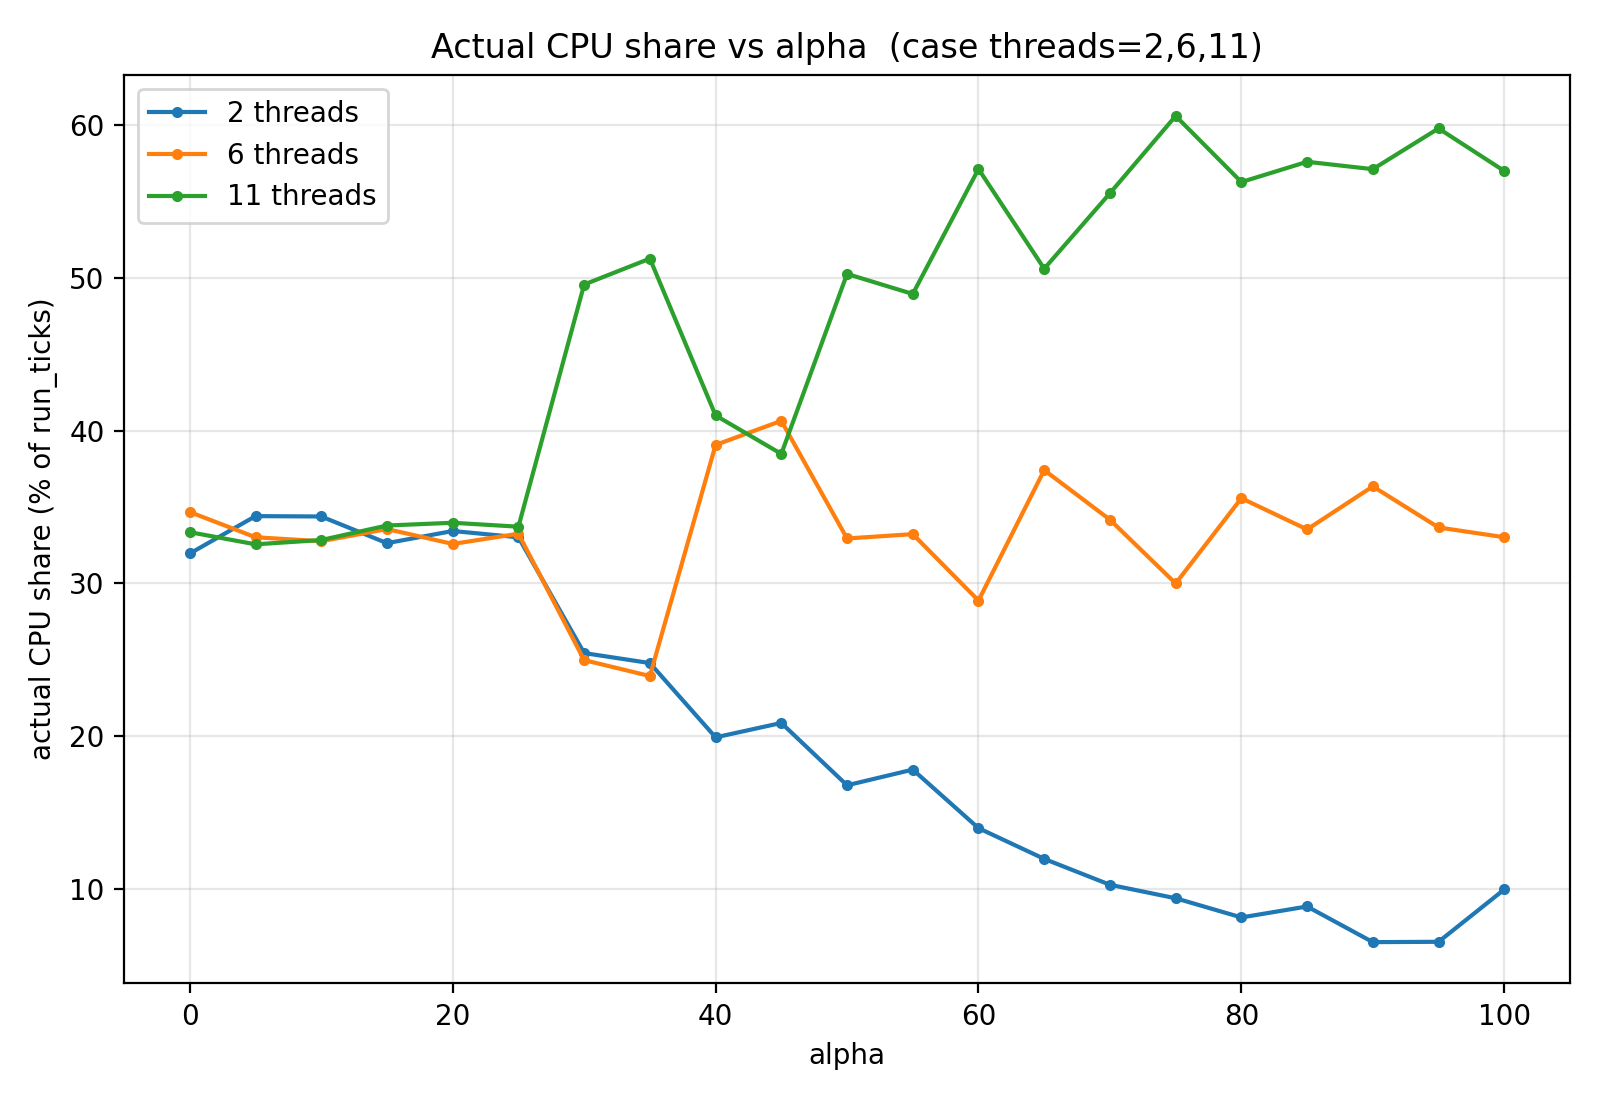
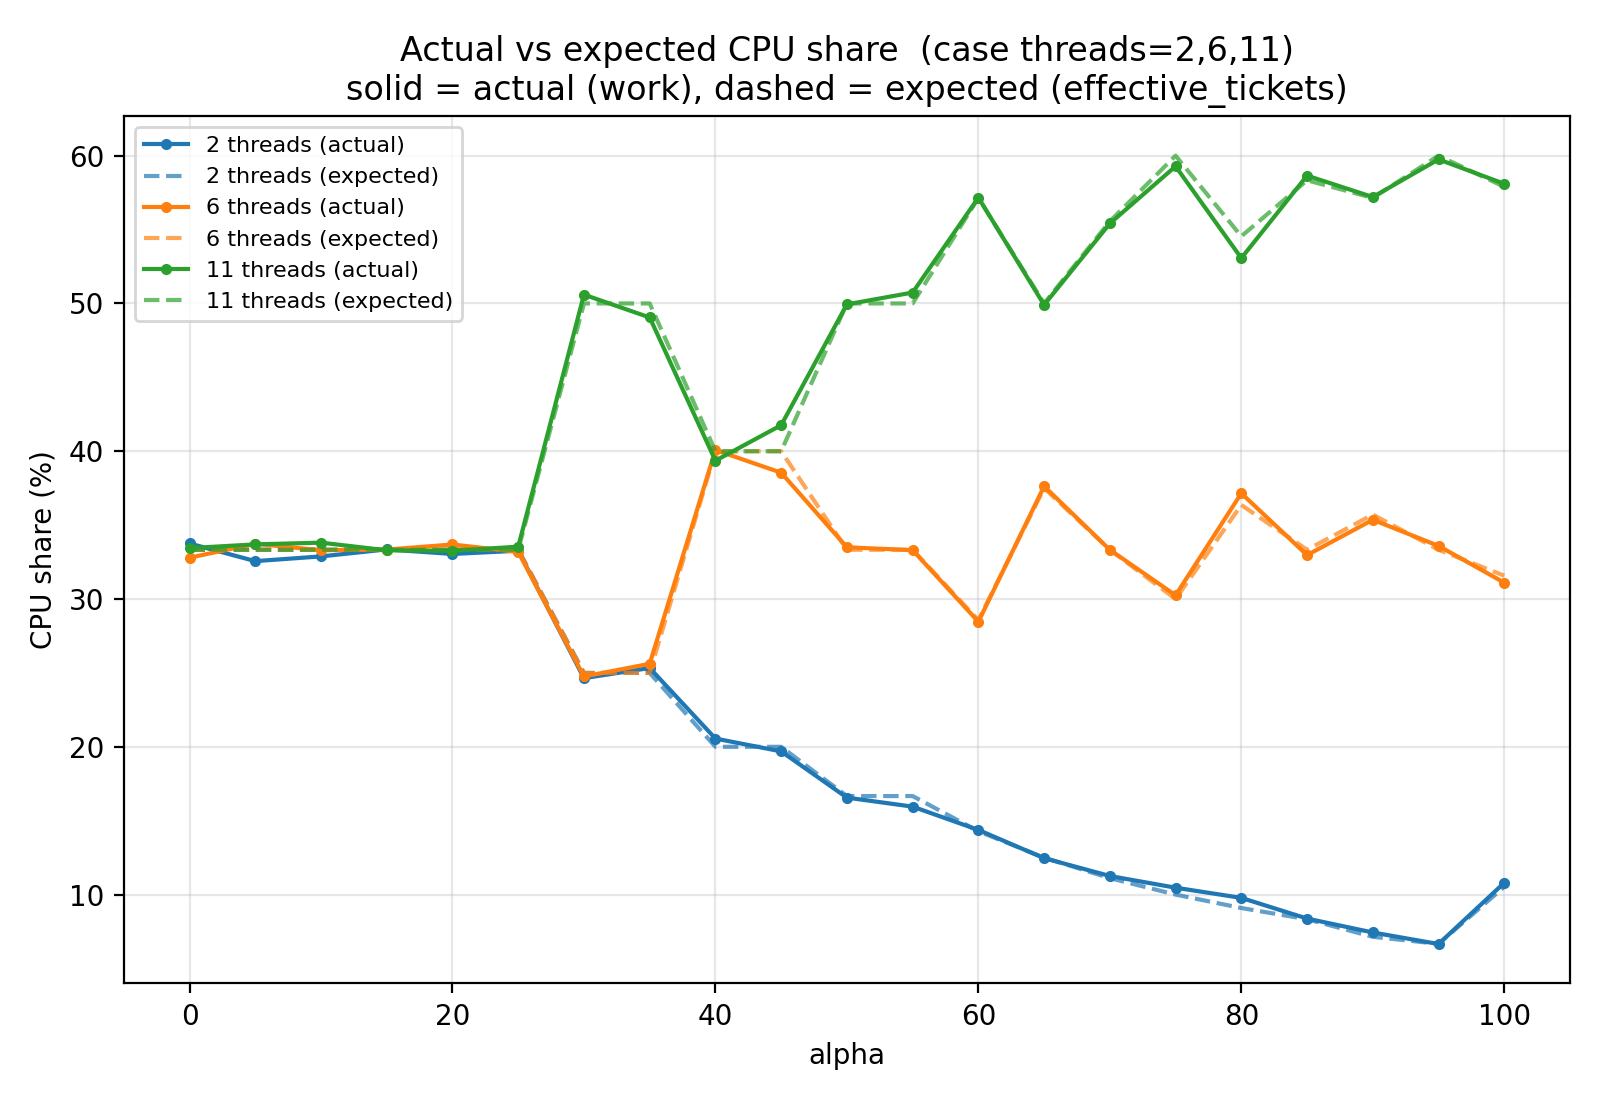
[scripts] 之前写的plot_alpha_arg_log.py脚本生成的tickshare_vs_alpha_1_9_25.png，有三个Actual CPU Share的实线，现在弄了3个颜色相同的虚线，虚线只effective tickets，也就是应该占的CPU Share

diff --git a/scripts/plot_alpha_arg.py b/scripts/plot_alpha_arg.py
@@ -117,42 +117,52 @@ def plot_effective(case, per_alpha, out_dir):
 
 
 def plot_tickshare(case, per_alpha, out_dir, metric):
-    """实际 CPU 份额 vs alpha：每个 role 的 metric 占该 alpha 下总量的比例。"""
+    """每个 role：实线=实际 CPU 份额(metric 占比)，同色虚线=理论应占份额(effective 占比)。
+    实线贴合虚线 = 调度器算出的权重真的兑现成了实际 CPU 时间。"""
     alphas = sorted(per_alpha.keys())
     roles = sorted({r for a in alphas for r in per_alpha[a].keys()})
 
     fig, ax = plt.subplots(figsize=(8, 5.5))
-    # 先算每个 alpha 的总量，再算各 role 占比
     role_threads = {}
-    series = {role: ([], []) for role in roles}  # role -> (xs, share%)
+    # role -> (xs, actual_share%, theory_share%)
+    series = {role: ([], [], []) for role in roles}
     for a in alphas:
-        total = 0.0
-        vals = {}
+        total_metric = 0.0
+        total_eff = 0.0
+        vals_metric, vals_eff = {}, {}
         for role in roles:
             if role in per_alpha[a]:
                 d = per_alpha[a][role]
-                v = mean(d[metric])
-                vals[role] = v
-                total += v
+                vm = mean(d[metric])
+                ve = mean(d["eff"])
+                vals_metric[role] = vm
+                vals_eff[role] = ve
+                total_metric += vm
+                total_eff += ve
                 role_threads[role] = d["threads"]
-        if total <= 0:
-            continue
         for role in roles:
-            if role in vals:
+            if role in vals_metric and total_metric > 0 and total_eff > 0:
                 series[role][0].append(a)
-                series[role][1].append(100.0 * vals[role] / total)
+                series[role][1].append(100.0 * vals_metric[role] / total_metric)
+                series[role][2].append(100.0 * vals_eff[role] / total_eff)
 
     for role in roles:
-        xs, sh = series[role]
-        if xs:
-            ax.plot(xs, sh, "-o", markersize=3,
-                    label=f"{role_threads.get(role, '?')} threads")
+        xs, actual, theory = series[role]
+        if not xs:
+            continue
+        # 实线：实际份额。取颜色后给虚线复用。
+        line, = ax.plot(xs, actual, "-o", markersize=3,
+                        label=f"{role_threads.get(role, '?')} threads (actual)")
+        # 同色虚线：理论应占份额(effective 占比)
+        ax.plot(xs, theory, "--", color=line.get_color(), alpha=0.7,
+                label=f"{role_threads.get(role, '?')} threads (expected)")
 
     ax.set_xlabel("alpha")
-    ax.set_ylabel(f"actual CPU share (% of {metric})")
-    ax.set_title(f"Actual CPU share vs alpha  (case threads={case})")
+    ax.set_ylabel(f"CPU share (%)")
+    ax.set_title(f"Actual vs expected CPU share  (case threads={case})\n"
+                 f"solid = actual ({metric}), dashed = expected (effective_tickets)")
     ax.grid(True, alpha=0.3)
-    ax.legend()
+    ax.legend(fontsize=8)
     fig.tight_layout()
     p = os.path.join(out_dir, f"tickshare_vs_alpha_{case.replace(',', '_')}.png")
     fig.savefig(p, dpi=200)